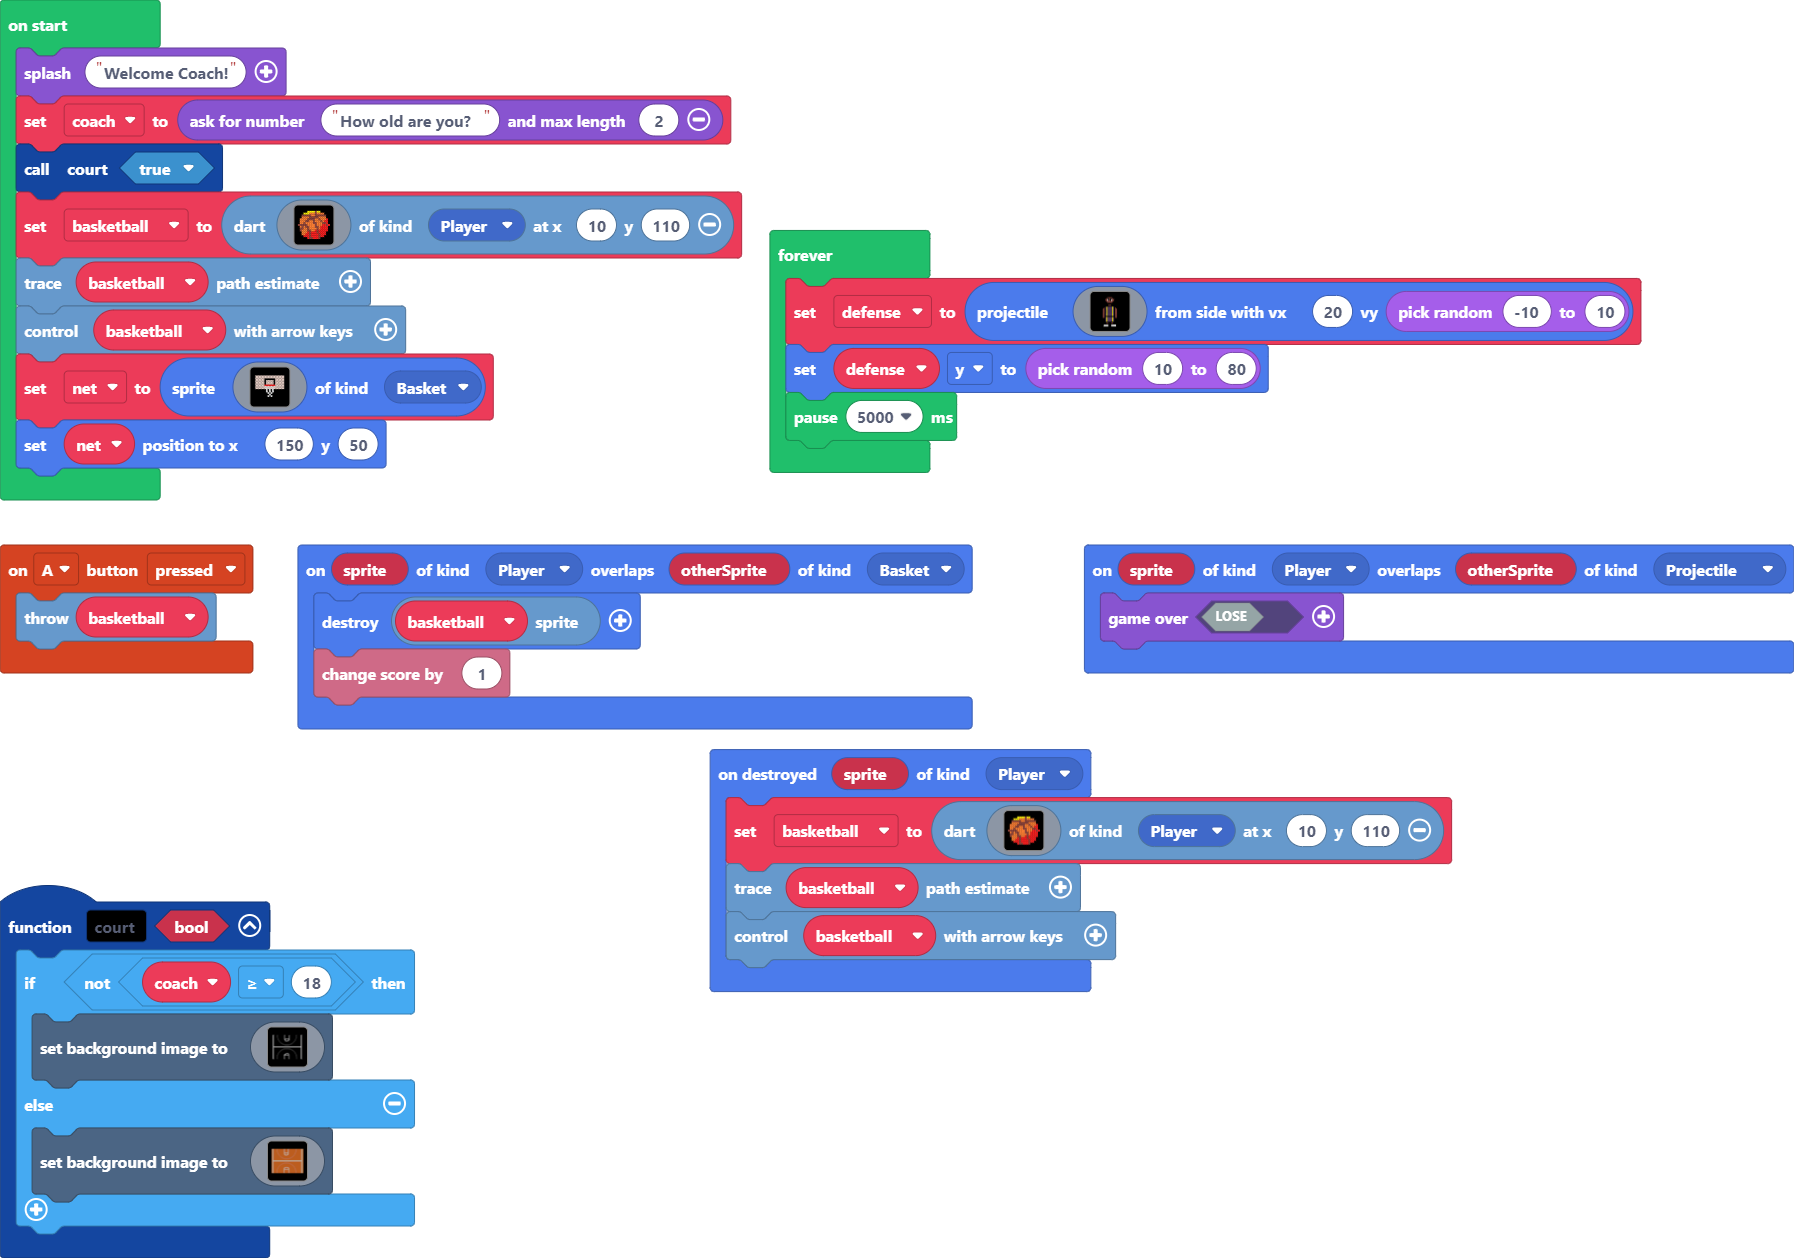
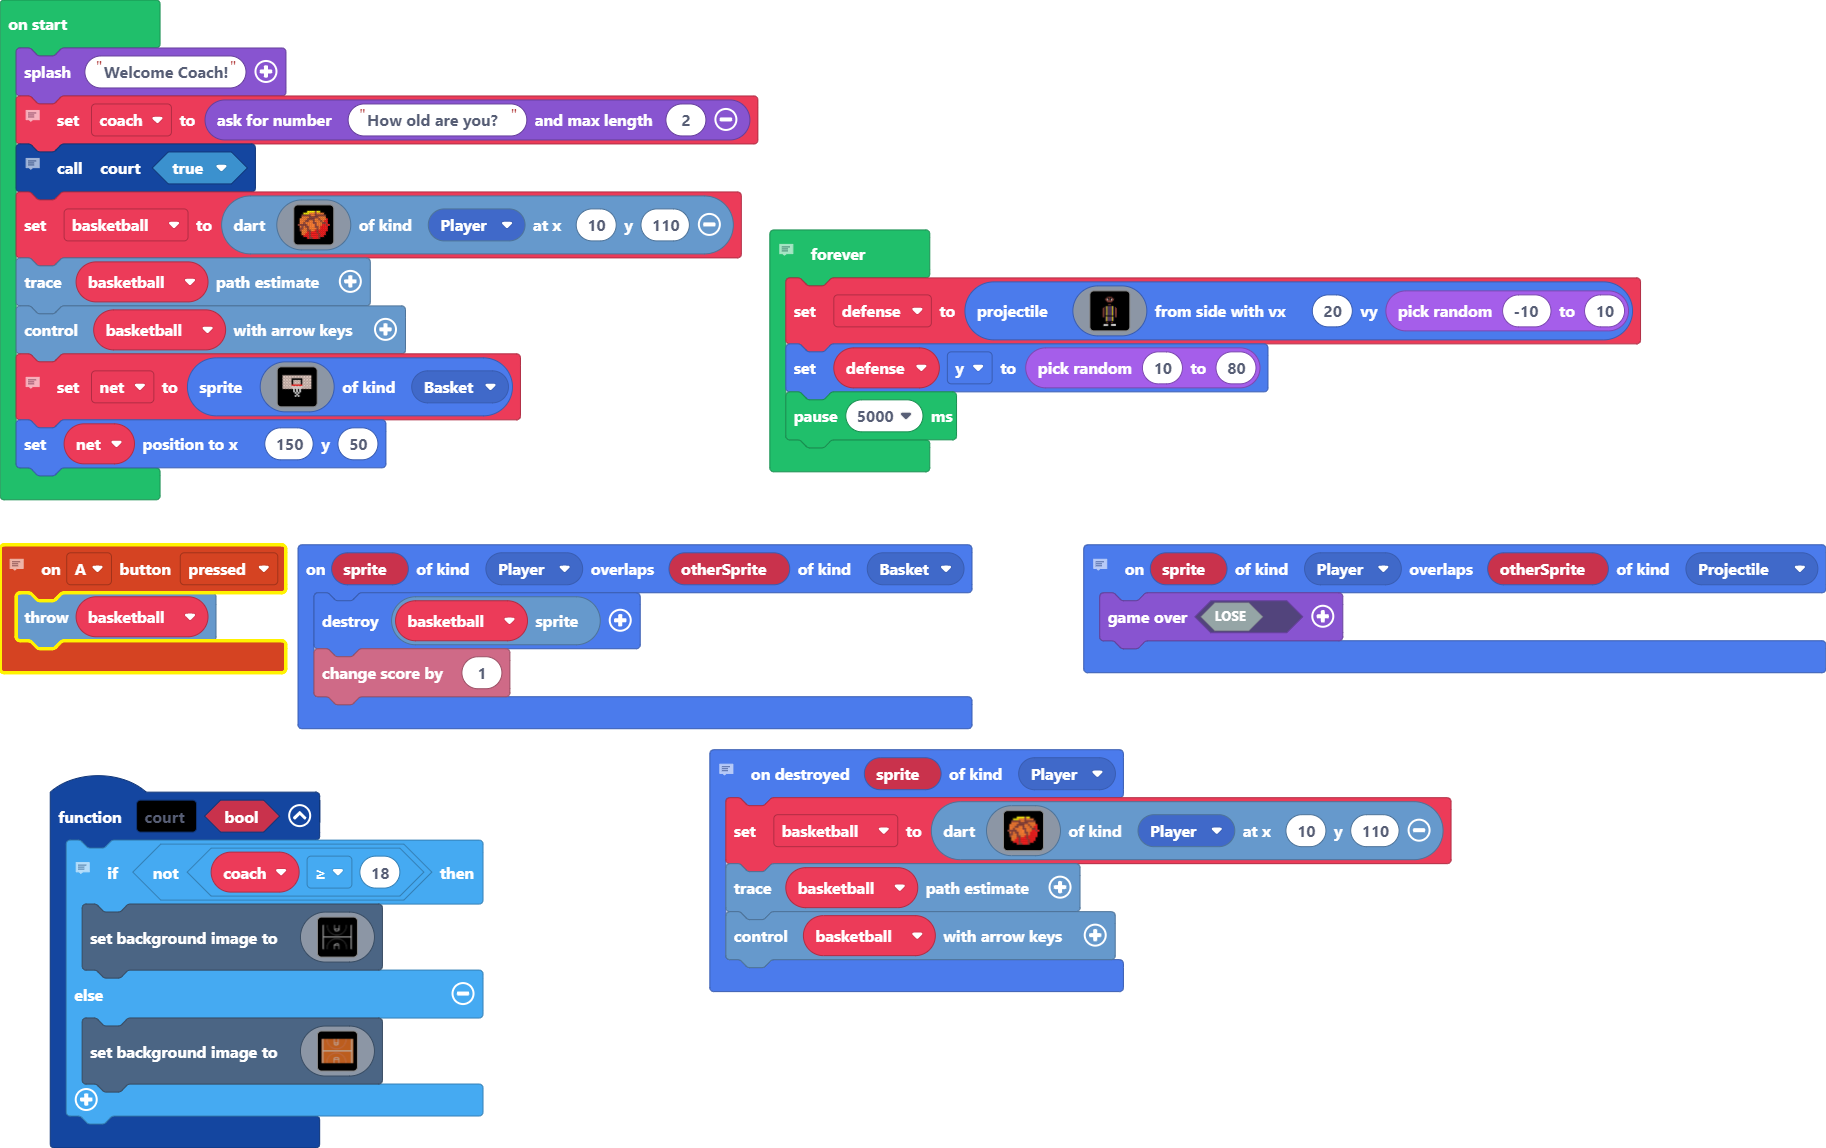
Update main.blocks, main.ts

diff --git a/main.ts b/main.ts
@@ -1,10 +1,12 @@
 namespace SpriteKind {
     export const Basket = SpriteKind.create()
 }
+// When the A button is pressed then the basketball moves in the direction that the user is aiming.
 controller.A.onEvent(ControllerButtonEvent.Pressed, function () {
     basketball.throwDart()
 })
 function court (bool: boolean) {
+    // Age decides which court the user plays on.
     if (!(coach >= 18)) {
         scene.setBackgroundImage(img`
[1 lines of base64/hex data omitted]
@@ -257,9 +259,11 @@ sprites.onOverlap(SpriteKind.Player, SpriteKind.Basket, function (sprite, otherS
     basketball.sprite.destroy()
     info.changeScoreBy(1)
 })
+// If player basketball overlaps with projectile defense then the game is over and the user loses the game.
 sprites.onOverlap(SpriteKind.Player, SpriteKind.Projectile, function (sprite, otherSprite) {
     game.over(false)
 })
+// After Sprite is destroyed on overlap with the basket, it respawns at it's original start point.
 sprites.onDestroyed(SpriteKind.Player, function (sprite) {
     basketball = darts.create(img`
         . . . . . f f f f f f f . . . . . 
@@ -287,7 +291,9 @@ let defense: Sprite = null
 let basketball: Dart = null
 let coach = 0
 game.splash("Welcome Coach!")
+// Asks for user input of age.
 coach = game.askForNumber("How old are you?", 2)
+// Calls to the court function.
 court(true)
 basketball = darts.create(img`
     . . . . . f f f f f f f . . . . . 
@@ -310,6 +316,7 @@ basketball = darts.create(img`
     `, SpriteKind.Player, 10, 110)
 basketball.setTrace()
 basketball.controlWithArrowKeys()
+// The net sprite is what the user wants to hit with the basketball.
 let net = sprites.create(img`
     fffffffffffffffffffff
     fdddddddddddddddddddf
@@ -329,6 +336,7 @@ let net = sprites.create(img`
     .....................
     `, SpriteKind.Basket)
 net.setPosition(150, 50)
+// This forever loop makes sure that defense projectiles are consistently flying across the screen.
 forever(function () {
     defense = sprites.createProjectileFromSide(img`
         ...................
